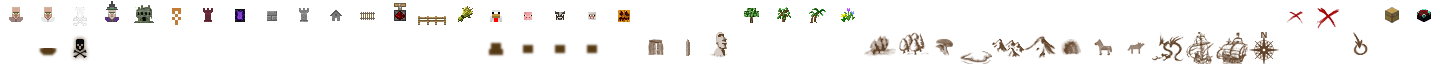
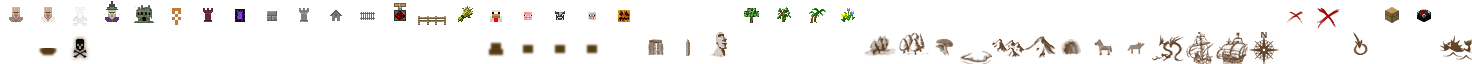
Adds a seamonster glyph

diff --git a/minecraftmap.js b/minecraftmap.js
@@ -124,6 +124,7 @@ var LocationType = {
   Wolf:            {iconIndex: 35, name: "",                href: "http://minecraft.gamepedia.com/Wolf"},
   Dragon:          {iconIndex: 36, name: "",                href: ""}, // No default href as dragon symbol could be used for many things, stronghold, "Here be dragons" etc
   Ship:            {iconIndex: 38, name: "",                href: ""}, // No default href as ship is probably used for map decoration
+  SeaMonster:      {iconIndex: 45, name: "",                href: ""}, 
   
   Spawn:           {iconIndex: 40, name: "Spawn", href: ""},
   PlayerStructure: {iconIndex:  8, name: "",      href: ""},  
@@ -201,7 +202,8 @@ var IconBoundsInformation = {
 	41: {width: 18, height: 16, yOffset:  0}, // Marker
 	42: {width: 14, height: 22, yOffset: -4}, // Marker2
 	43: {width: 14, height: 16, yOffset: -1}, // Chest
-	44: {width: 14, height: 16, yOffset: -1}  // EnchantingRoom
+	44: {width: 14, height: 16, yOffset: -1}, // EnchantingRoom
+	45: {width: 28, height: 16, yOffset:  1}  // Sea monster
 }
 
 
